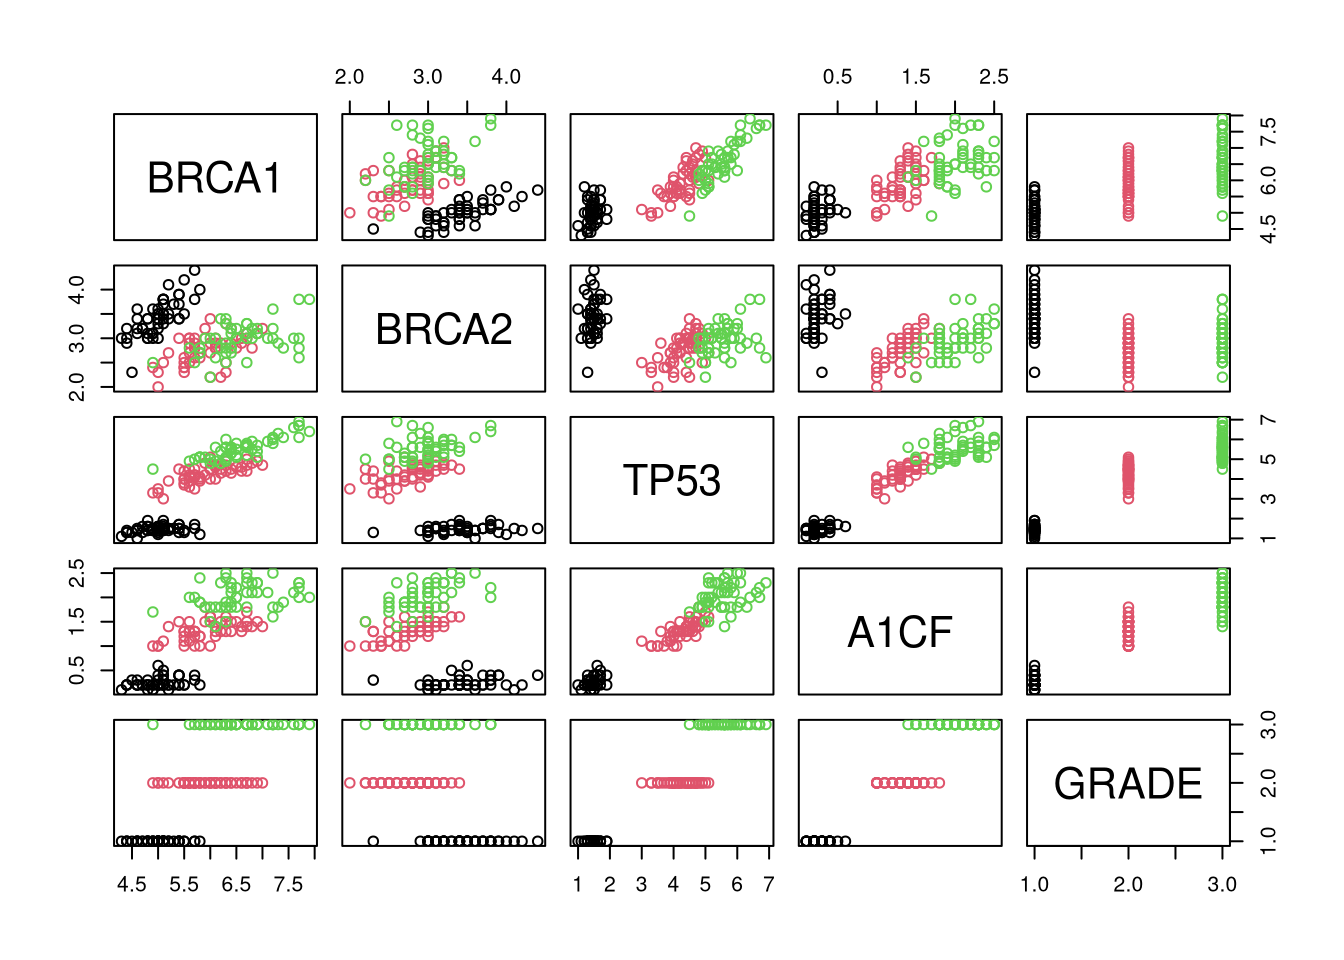
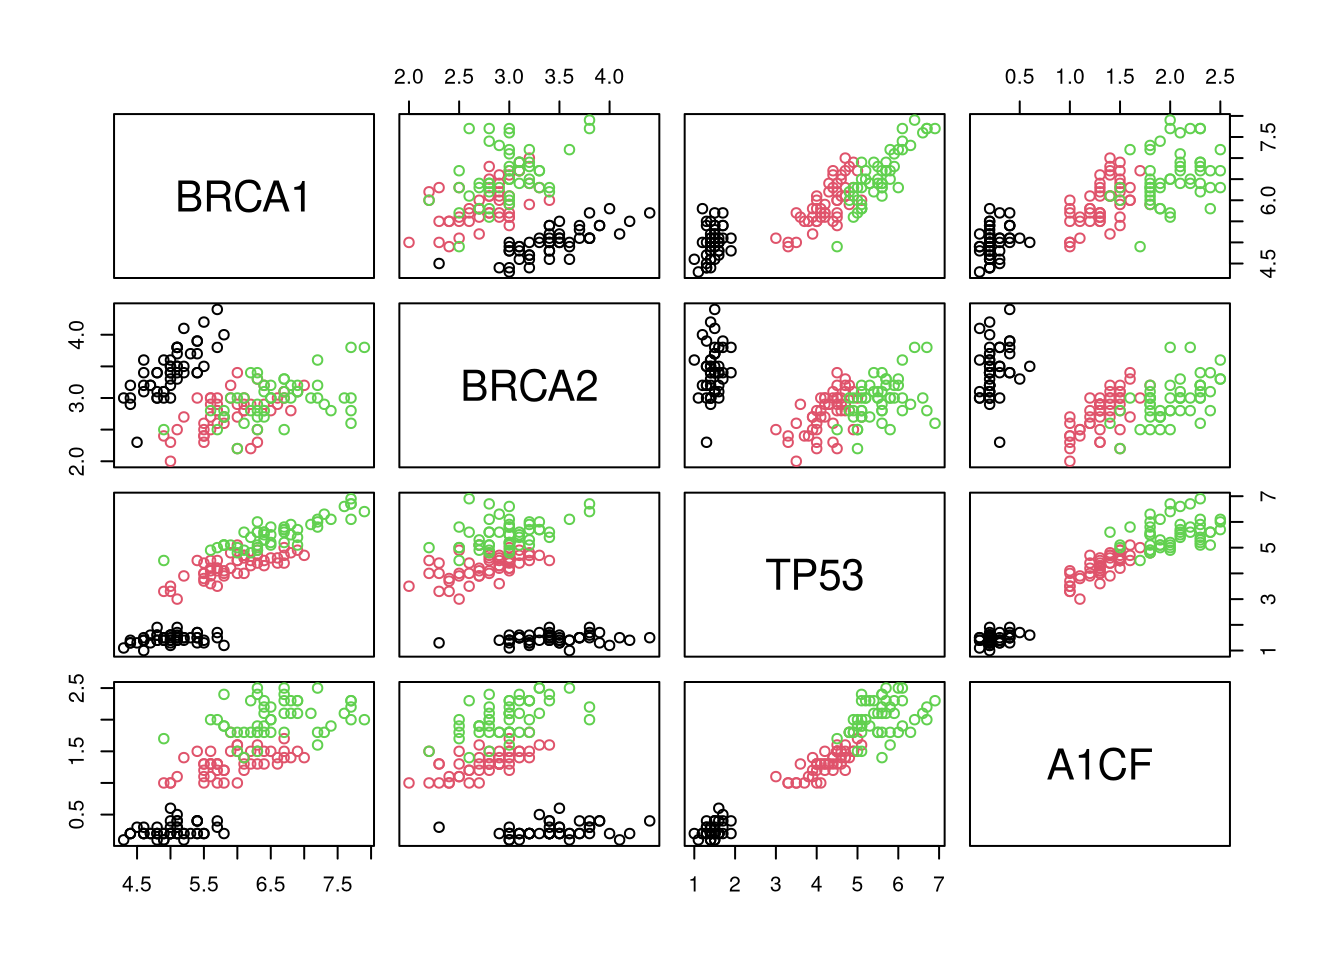
rebuild book

diff --git a/docs/sec-si.html b/docs/sec-si.html
@@ -14,7 +14,7 @@
 
 <meta name="author" content="Laurent Gatto" />
 
-<meta name="date" content="2021-11-08" />
+<meta name="date" content="2021-11-15" />
 
 <script type="text/x-mathjax-config">
 MathJax.Hub.Config({
@@ -243,7 +243,7 @@ div.csl-indent {
 ## [27] rWSBIM1207_0.1.15                     airway_1.14.0                        
 ## [29] SummarizedExperiment_1.24.0           Biobase_2.54.0                       
 ## [31] GenomicRanges_1.46.0                  GenomeInfoDb_1.30.0                  
-## [33] IRanges_2.28.0                        S4Vectors_0.32.0                     
+## [33] IRanges_2.28.0                        S4Vectors_0.32.2                     
 ## [35] BiocGenerics_0.40.0                   MatrixGenerics_1.6.0                 
 ## [37] matrixStats_0.61.0                    BiocStyle_2.22.0                     
 ## [39] patchwork_1.1.1                       ggbeeswarm_0.6.0                     
@@ -252,7 +252,7 @@ div.csl-indent {
 ## [45] lattice_0.20-45                       forcats_0.5.1                        
 ## [47] stringr_1.4.0                         dplyr_1.0.7                          
 ## [49] purrr_0.3.4                           readr_2.0.2                          
-## [51] tidyr_1.1.4                           tibble_3.1.5                         
+## [51] tidyr_1.1.4                           tibble_3.1.6                         
 ## [53] ggplot2_3.3.5                         tidyverse_1.3.1                      
 ## [55] rWSBIM1322_0.2.0                     
 ## 
@@ -268,13 +268,13 @@ div.csl-indent {
 ##  [25] gower_0.2.2              xfun_0.28                hms_1.1.1               
 ##  [28] jquerylib_0.1.4          evaluate_0.14            fansi_0.5.0             
 ##  [31] restfulr_0.0.13          progress_1.2.2           dendextend_1.15.2       
-##  [34] dbplyr_2.1.1             readxl_1.3.1             igraph_1.2.7            
+##  [34] dbplyr_2.1.1             readxl_1.3.1             igraph_1.2.8            
 ##  [37] DBI_1.1.1                htmlwidgets_1.5.4        ellipsis_0.3.2          
 ##  [40] ggpubr_0.4.0             backports_1.3.0          bookdown_0.24           
 ##  [43] biomaRt_2.50.0           vctrs_0.3.8              abind_1.4-5             
 ##  [46] caret_6.0-90             cachem_1.0.6             withr_2.4.2             
 ##  [49] msmbstyle_0.0.19         vroom_1.5.5              checkmate_2.0.0         
-##  [52] GenomicAlignments_1.30.0 prettyunits_1.1.1        mclust_5.4.7            
+##  [52] GenomicAlignments_1.30.0 prettyunits_1.1.1        mclust_5.4.8            
 ##  [55] segmented_1.3-4          lazyeval_0.2.2           crayon_1.4.2            
 ##  [58] recipes_0.1.17           pkgconfig_2.0.3          labeling_0.4.2          
 ##  [61] nlme_3.1-153             vipor_0.4.5              nnet_7.3-16             
@@ -291,7 +291,7 @@ div.csl-indent {
 ##  [94] memoise_2.0.0            magrittr_2.0.1           plyr_1.8.6              
 ##  [97] hexbin_1.28.2            zlibbioc_1.40.0          compiler_4.1.2          
 ## [100] BiocIO_1.4.0            
-##  [ reached getOption("max.print") -- omitted 78 entries ]</code></pre>
+##  [ reached getOption("max.print") -- omitted 75 entries ]</code></pre>
 <div id="sec-setup2" class="section level2" number="13.1">
 <h2>
 <span class="header-section-number">13.1</span> R package setup<div class="tooltip"><button class="internal-link-btn" onclick="copy_link('sec-setup2')" onmouseout="reset_tooltip('sec-setup2-tooltip')"><span class="tooltiptext" id="sec-setup2-tooltip">Copy link</span><i class="fa fa-link"></i></button></div>
@@ -322,7 +322,7 @@ the following code:</p>
 <a href="sec-ccl.html"><button class="btn btn-default">Previous</button></a>
 </p>
 <p class="build-date">Page built: 
-2021-11-08
+2021-11-15
  using 
 R version 4.1.2 (2021-11-01)
 </p>

diff --git a/docs/sec-ul.html b/docs/sec-ul.html
@@ -14,7 +14,7 @@
 
 <meta name="author" content="Laurent Gatto" />
 
-<meta name="date" content="2021-11-08" />
+<meta name="date" content="2021-11-15" />
 
 <script type="text/x-mathjax-config">
 MathJax.Hub.Config({
@@ -283,8 +283,8 @@ additional details.</p>
 </p>
 <div class="question-body">
 <p>Generate the 5 data points along 2 dimensions as illustrated below and
-calculate all their Euclidean pairwise distance using <code>dist</code>. Interprete the
-output of the function. What class if it?</p>
+calculate all their Euclidean pairwise distance using
+<code>dist()</code>. Interprete the output of the function. What class is it?</p>
 <div class="sourceCode" id="cb352"><pre class="sourceCode r"><code class="sourceCode r"><span id="cb352-1"><a href="sec-ul.html#cb352-1" aria-hidden="true" tabindex="-1"></a><span class="fu">set.seed</span>(<span class="dv">111</span>)</span>
 <span id="cb352-2"><a href="sec-ul.html#cb352-2" aria-hidden="true" tabindex="-1"></a>samples <span class="ot">&lt;-</span> <span class="fu">data.frame</span>(<span class="at">x =</span> <span class="fu">rnorm</span>(<span class="dv">5</span>, <span class="dv">5</span>, <span class="dv">1</span>),</span>
 <span id="cb352-3"><a href="sec-ul.html#cb352-3" aria-hidden="true" tabindex="-1"></a>                      <span class="at">y =</span> <span class="fu">rnorm</span>(<span class="dv">5</span>, <span class="dv">5</span>, <span class="dv">1</span>))</span>
@@ -393,7 +393,7 @@ the expression of 4 genes in 150 patients grouped in categories A, B
 or C.</p>
 <div class="sourceCode" id="cb365"><pre class="sourceCode r"><code class="sourceCode r"><span id="cb365-1"><a href="sec-ul.html#cb365-1" aria-hidden="true" tabindex="-1"></a><span class="fu">library</span>(<span class="st">"rWSBIM1322"</span>)</span>
 <span id="cb365-2"><a href="sec-ul.html#cb365-2" aria-hidden="true" tabindex="-1"></a><span class="fu">data</span>(giris)</span>
-<span id="cb365-3"><a href="sec-ul.html#cb365-3" aria-hidden="true" tabindex="-1"></a><span class="fu">pairs</span>(giris, <span class="at">col =</span> giris<span class="sc">$</span>GRADE)</span></code></pre></div>
+<span id="cb365-3"><a href="sec-ul.html#cb365-3" aria-hidden="true" tabindex="-1"></a><span class="fu">pairs</span>(giris[, <span class="dv">1</span><span class="sc">:</span><span class="dv">4</span>], <span class="at">col =</span> giris<span class="sc">$</span>GRADE)</span></code></pre></div>
 <div class="figure">
 <span style="display:block;" id="fig:girisplot"></span>
 <p class="caption marginnote shownote">
@@ -996,7 +996,7 @@ average marker profiles, such as shown below.</p></li>
 <a href="sec-sl.html"><button class="btn btn-default">Next</button></a>
 </p>
 <p class="build-date">Page built: 
-2021-11-08
+2021-11-15
  using 
 R version 4.1.2 (2021-11-01)
 </p>

diff --git a/docs/sec-vis.html b/docs/sec-vis.html
@@ -14,7 +14,7 @@
 
 <meta name="author" content="Laurent Gatto" />
 
-<meta name="date" content="2021-11-08" />
+<meta name="date" content="2021-11-15" />
 
 <script type="text/x-mathjax-config">
 MathJax.Hub.Config({
@@ -920,7 +920,7 @@ of the data.</p>
 <span id="cb37-9"><a href="sec-vis.html#cb37-9" aria-hidden="true" tabindex="-1"></a>p2 <span class="ot">&lt;-</span>  <span class="fu">ggplot</span>(sim, <span class="fu">aes</span>(<span class="fu">log</span>(x))) <span class="sc">+</span></span>
 <span id="cb37-10"><a href="sec-vis.html#cb37-10" aria-hidden="true" tabindex="-1"></a>    <span class="fu">geom_histogram</span>(<span class="at">bins =</span> <span class="dv">30</span>)</span>
 <span id="cb37-11"><a href="sec-vis.html#cb37-11" aria-hidden="true" tabindex="-1"></a>p1 <span class="sc">+</span> p2</span></code></pre></div>
-<pre><code>## Warning: Removed 8043 rows containing non-finite values (stat_bin).</code></pre>
+<pre><code>## Warning: Removed 8006 rows containing non-finite values (stat_bin).</code></pre>
 <div class="figure">
 <span style="display:block;" id="fig:sim"></span>
 <p class="caption marginnote shownote">
@@ -1166,7 +1166,7 @@ otherwise. Below are some example outputs.</p>
 <a href="sec-obj.html"><button class="btn btn-default">Next</button></a>
 </p>
 <p class="build-date">Page built: 
-2021-11-08
+2021-11-15
  using 
 R version 4.1.2 (2021-11-01)
 </p>

diff --git a/docs/index.html b/docs/index.html
@@ -14,7 +14,7 @@
 
 <meta name="author" content="Laurent Gatto" />
 
-<meta name="date" content="2021-11-08" />
+<meta name="date" content="2021-11-15" />
 
 <script type="text/x-mathjax-config">
 MathJax.Hub.Config({
@@ -340,7 +340,7 @@ style</a> <span class="citation">(<label for="tufte-mn-10" class="margin-toggle"
 <a href="sec-refresher.html"><button class="btn btn-default">Next</button></a>
 </p>
 <p class="build-date">Page built: 
-2021-11-08
+2021-11-15
  using 
 R version 4.1.2 (2021-11-01)
 </p>

diff --git a/docs/sec-sl.html b/docs/sec-sl.html
@@ -14,7 +14,7 @@
 
 <meta name="author" content="Laurent Gatto" />
 
-<meta name="date" content="2021-11-08" />
+<meta name="date" content="2021-11-15" />
 
 <script type="text/x-mathjax-config">
 MathJax.Hub.Config({
@@ -1054,7 +1054,7 @@ most reliable assignments one, and setting the unreliable ones to
 <a href="sec-biovis.html"><button class="btn btn-default">Next</button></a>
 </p>
 <p class="build-date">Page built: 
-2021-11-08
+2021-11-15
  using 
 R version 4.1.2 (2021-11-01)
 </p>

diff --git a/docs/sec-biovis.html b/docs/sec-biovis.html
@@ -14,7 +14,7 @@
 
 <meta name="author" content="Laurent Gatto" />
 
-<meta name="date" content="2021-11-08" />
+<meta name="date" content="2021-11-15" />
 
 <script type="text/x-mathjax-config">
 MathJax.Hub.Config({
@@ -487,7 +487,7 @@ number of intersectios (default is 40) become useful.</p>
 <a href="sec-ccl.html"><button class="btn btn-default">Next</button></a>
 </p>
 <p class="build-date">Page built: 
-2021-11-08
+2021-11-15
  using 
 R version 4.1.2 (2021-11-01)
 </p>

diff --git a/docs/sec-mlintro.html b/docs/sec-mlintro.html
@@ -14,7 +14,7 @@
 
 <meta name="author" content="Laurent Gatto" />
 
-<meta name="date" content="2021-11-08" />
+<meta name="date" content="2021-11-15" />
 
 <script type="text/x-mathjax-config">
 MathJax.Hub.Config({
@@ -762,7 +762,7 @@ but these are beyond the scope of this course.</p>
 <a href="sec-testing.html"><button class="btn btn-default">Next</button></a>
 </p>
 <p class="build-date">Page built: 
-2021-11-08
+2021-11-15
  using 
 R version 4.1.2 (2021-11-01)
 </p>

diff --git a/docs/sec-obj.html b/docs/sec-obj.html
@@ -14,7 +14,7 @@
 
 <meta name="author" content="Laurent Gatto" />
 
-<meta name="date" content="2021-11-08" />
+<meta name="date" content="2021-11-15" />
 
 <script type="text/x-mathjax-config">
 MathJax.Hub.Config({
@@ -997,7 +997,7 @@ of class <code>SummarizedExperiment</code>.</p>
 <a href="sec-biostrings.html"><button class="btn btn-default">Next</button></a>
 </p>
 <p class="build-date">Page built: 
-2021-11-08
+2021-11-15
  using 
 R version 4.1.2 (2021-11-01)
 </p>

diff --git a/docs/sec-norm.html b/docs/sec-norm.html
@@ -14,7 +14,7 @@
 
 <meta name="author" content="Laurent Gatto" />
 
-<meta name="date" content="2021-11-08" />
+<meta name="date" content="2021-11-15" />
 
 <script type="text/x-mathjax-config">
 MathJax.Hub.Config({
@@ -749,7 +749,7 @@ implications for the normalisation step?</p>
 <a href="sec-mlintro.html"><button class="btn btn-default">Next</button></a>
 </p>
 <p class="build-date">Page built: 
-2021-11-08
+2021-11-15
  using 
 R version 4.1.2 (2021-11-01)
 </p>

diff --git a/docs/sec-refresher.html b/docs/sec-refresher.html
@@ -14,7 +14,7 @@
 
 <meta name="author" content="Laurent Gatto" />
 
-<meta name="date" content="2021-11-08" />
+<meta name="date" content="2021-11-15" />
 
 <script type="text/x-mathjax-config">
 MathJax.Hub.Config({
@@ -373,7 +373,7 @@ state it explicitly in your response.</p>
 <a href="sec-vis.html"><button class="btn btn-default">Next</button></a>
 </p>
 <p class="build-date">Page built: 
-2021-11-08
+2021-11-15
  using 
 R version 4.1.2 (2021-11-01)
 </p>

diff --git a/docs/sec-testing.html b/docs/sec-testing.html
@@ -14,7 +14,7 @@
 
 <meta name="author" content="Laurent Gatto" />
 
-<meta name="date" content="2021-11-08" />
+<meta name="date" content="2021-11-15" />
 
 <script type="text/x-mathjax-config">
 MathJax.Hub.Config({
@@ -1133,7 +1133,7 @@ conclusion now?</li>
 <a href="sec-dimred.html"><button class="btn btn-default">Next</button></a>
 </p>
 <p class="build-date">Page built: 
-2021-11-08
+2021-11-15
  using 
 R version 4.1.2 (2021-11-01)
 </p>

diff --git a/docs/404.html b/docs/404.html
@@ -14,7 +14,7 @@
 
 <meta name="author" content="Laurent Gatto" />
 
-<meta name="date" content="2021-11-08" />
+<meta name="date" content="2021-11-15" />
 
 <script type="text/x-mathjax-config">
 MathJax.Hub.Config({
@@ -209,7 +209,7 @@ the table of contents to find the page you are looking for.</p>
 <p style="text-align: center;">
 </p>
 <p class="build-date">Page built: 
-2021-11-08
+2021-11-15
  using 
 R version 4.1.2 (2021-11-01)
 </p>
